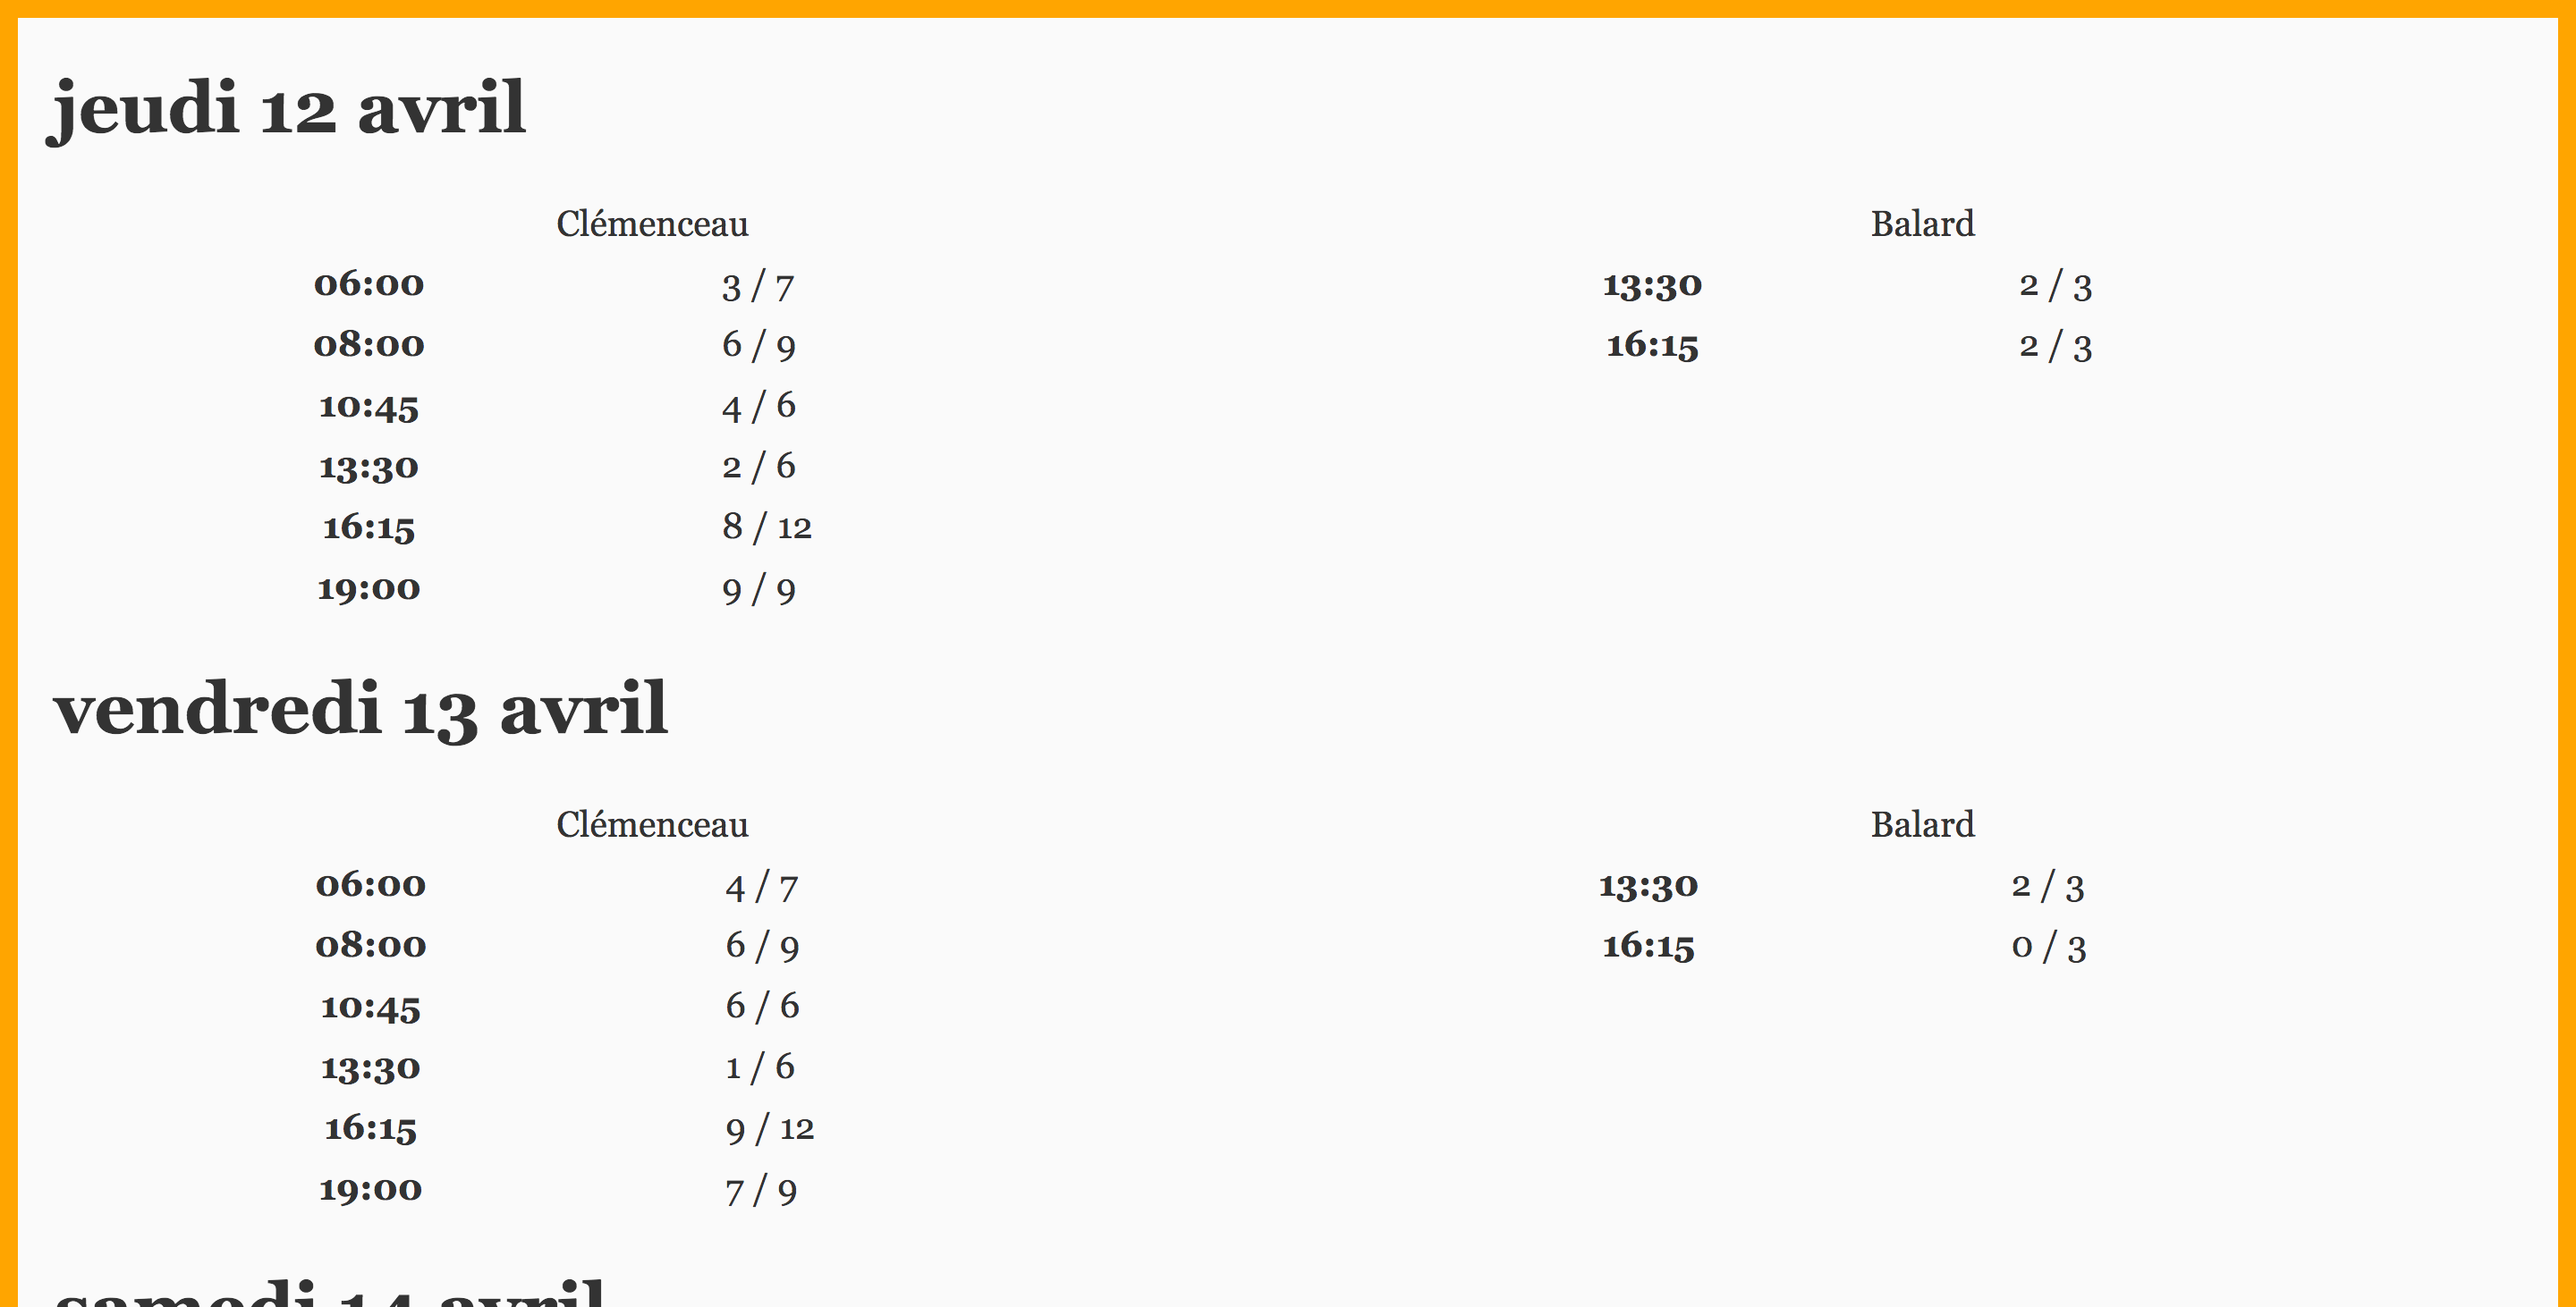
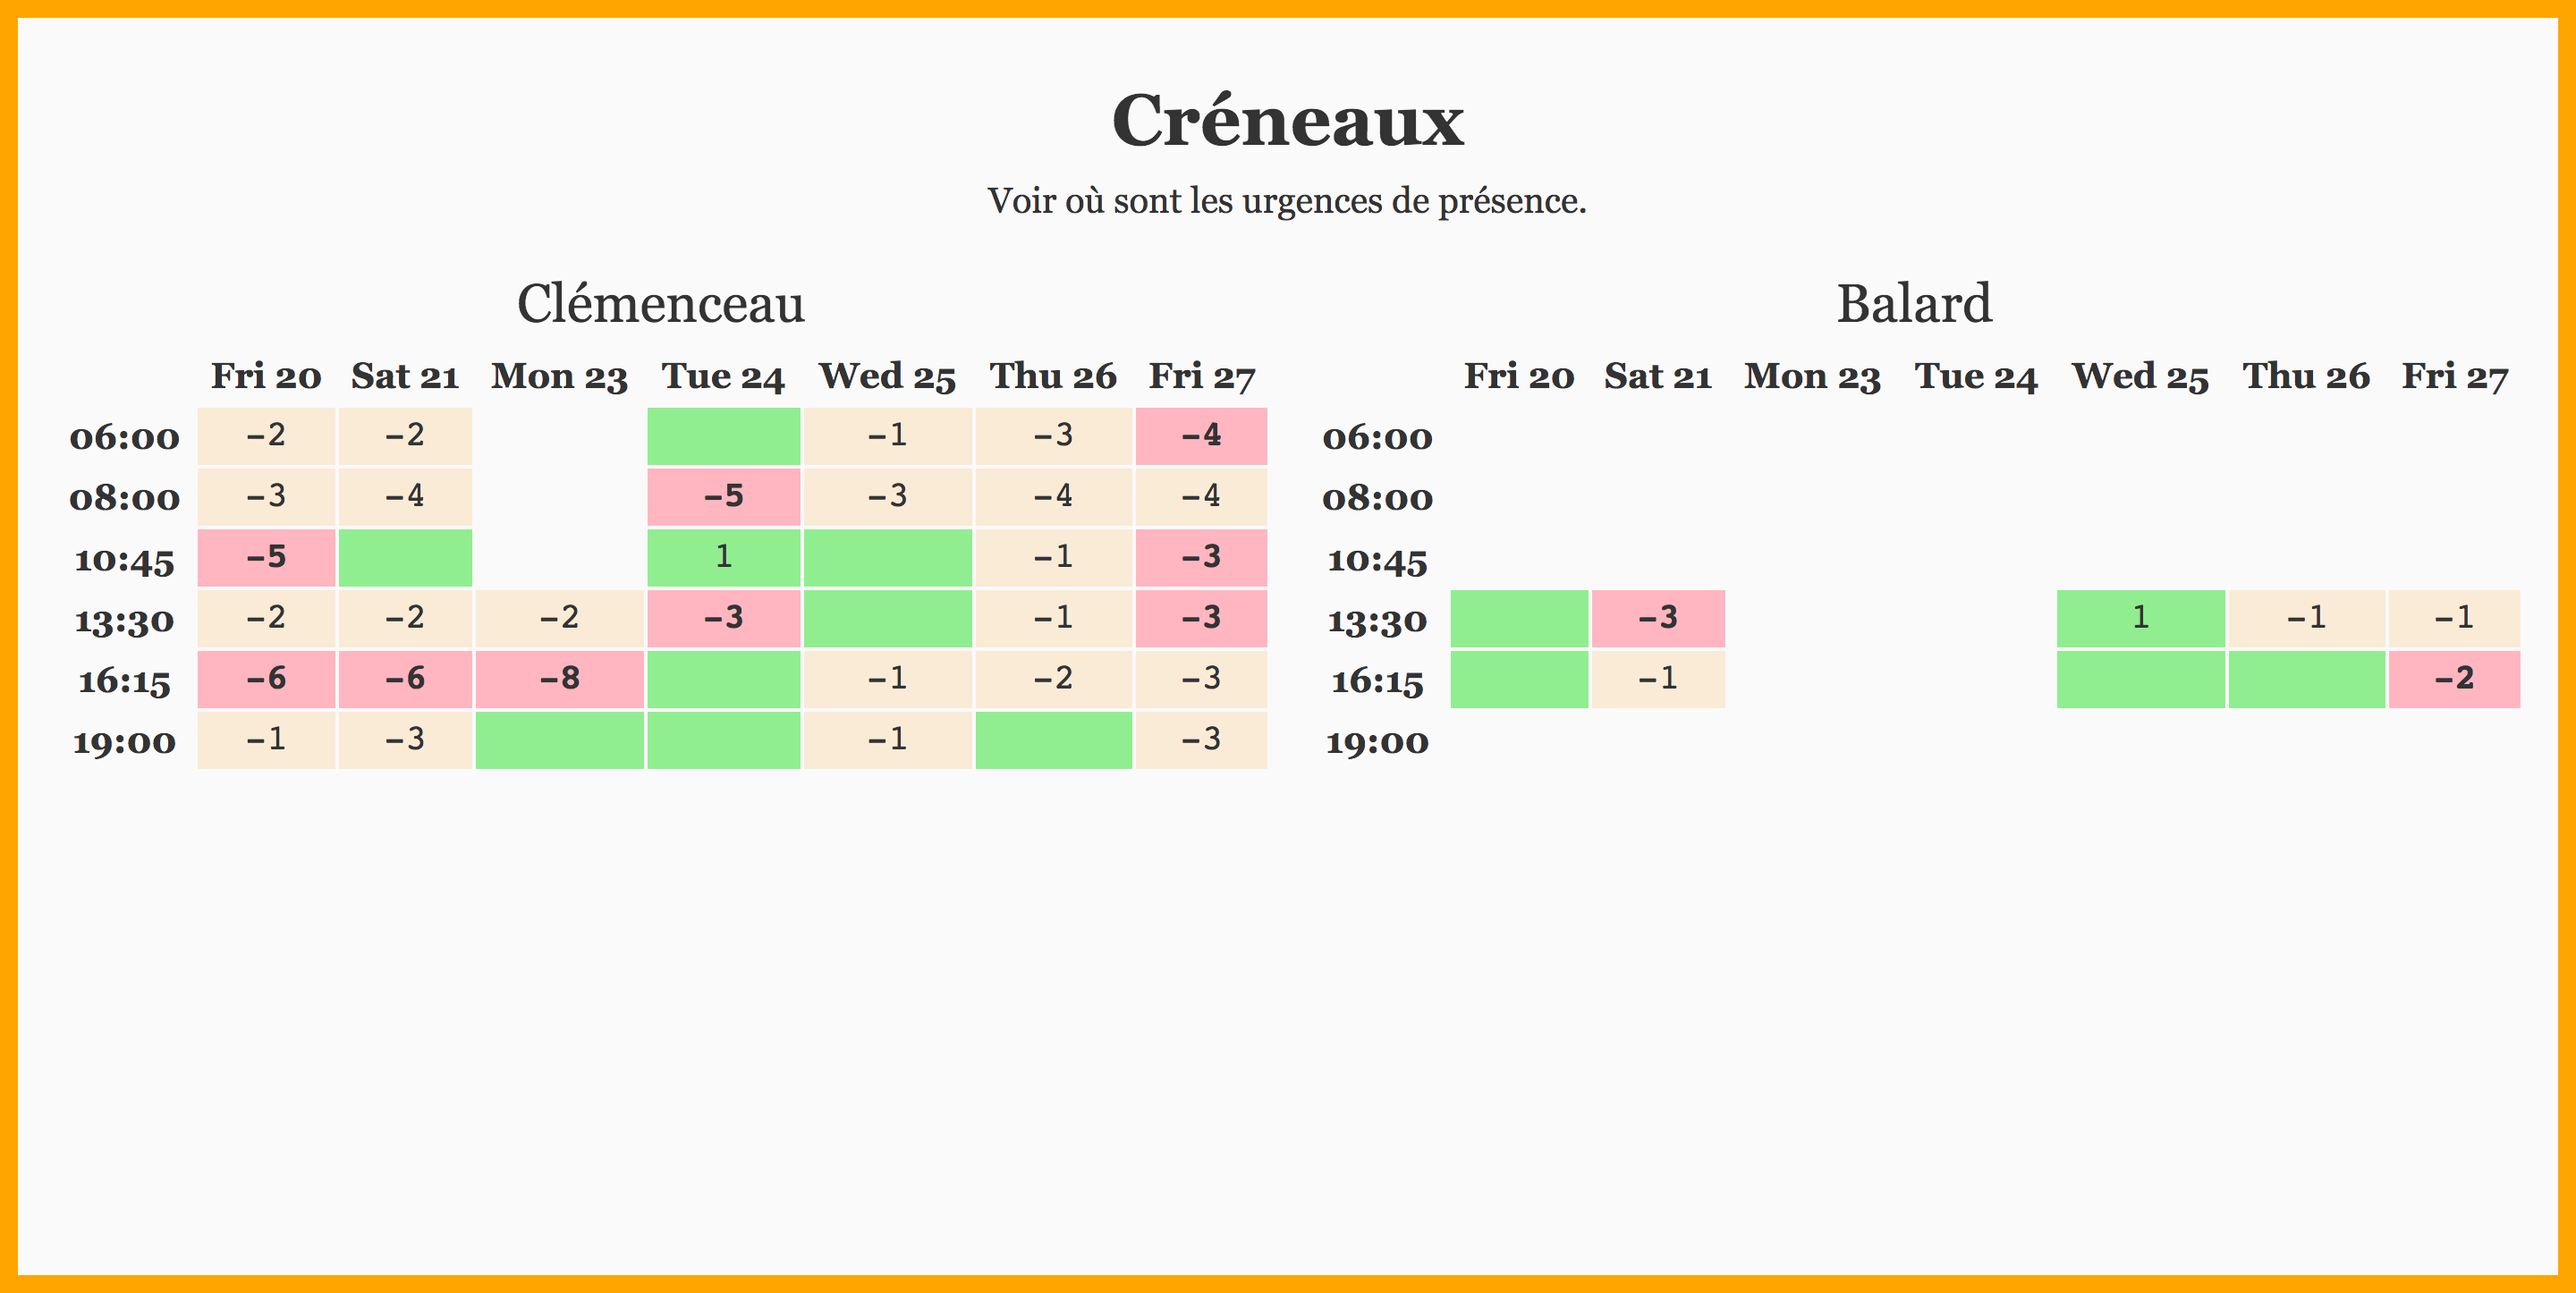
Schedule week view

diff --git a/views/schedule.html b/views/schedule.html
@@ -3,28 +3,41 @@
 {% block title %}Planning des semaines{% endblock %}
 
 {% block content %}
+<div class="intro">
+  <h1 class="title">Créneaux</h1>
 
-{% for day, venues in data %}
-<div class="day" id="{{ day }}">
-  <header>
-    <h1>{{ day | date.format('dddd DD MMMM', {locale: locale}) }}</h1>
-  </header>
-  {% for venue, schedules in venues %}
-  <table class="venue venue--{{ venue | lower }}" data-json="{{ schedules | dump(2) }}">
+  <p>Voir où sont les urgences de présence.</p>
+</div>
+
+<div class="week" id="current">
+{% for venue, shifts in data %}
+  <table class="venue venue--{{ venue | lower }}">
     <caption>{{ venue }}</caption>
-    <tbody>
-      {% for datetime, planning in schedules %}
-      {% set resources = planning | first %}
+    <thead>
       <tr>
-        <th class="time">{{ datetime | date.format('HH:mm') }}</th>
-        <td class="time__infos">
-          {{ resources.seats_expected }} / {{ resources.seats_max }}
+        <th></th>
+        {% for day in days %}
+        <th>{{ day | date.format('ddd DD') }}</th>
+        {% endfor %}
+      </tr>
+    </thead>
+    <tbody>
+      {% for shift in times %}
+      <tr>
+        <th>{{ shift }}</th>
+        {% for day in days %}
+        {% set resource = shifts[shift][day] | default([]) | first %}
+        {% set seats_diff = resource | resource_diff %}
+        <td class="digit {{ resource | resource_class }}">
+          {% if resource and (seats_diff !== 0) %}
+          {{ seats_diff }}
+          {% endif %}
         </td>
+        {% endfor %}
       </tr>
       {% endfor %}
     </tbody>
   </table>
-  {% endfor %}
-</div>
 {% endfor %}
+</div>
 {% endblock %}

diff --git a/lib/stats.js b/lib/stats.js
@@ -42,18 +42,43 @@ module.exports.users = ({ data:users }) => ({
   ]
 });
 
+module.exports.shiftsTimes = (services) => {
+  return services.reduce((times, d) => {
+    const time = format(d.date_begin_tz, 'HH:mm');
+
+    if (!times.includes(time)) {
+      times.push(time);
+    }
+
+    return times;
+  }, []);
+}
+
+module.exports.shiftsDays = (services) => {
+  return services.reduce((times, d) => {
+    const time = format(d.date_begin_tz, 'YYYY-MM-DD');
+
+    if (!times.includes(time)) {
+      times.push(time);
+    }
+
+    return times;
+  }, []);
+}
+
 module.exports.shifts = (services) => {
   const LOCATIONS = {
     'Cleme': 'Clémenceau',
     'Balar': 'Balard',
-  }
+  };
+
   return groupBy(
     services,
-    // by day of the week (monday, tuesday, etc.)
-    (d) => format(d.date_begin_tz, 'YYYY-MM-DD'),
     // by venue
     (d) => LOCATIONS[ d.name.split('-').pop().trim() ],
-    // by datetime
-    (d) => d.date_begin_tz,
+    // by shift
+    (d) => format(d.date_begin_tz, 'HH:mm'),
+    // by day
+    (d) => format(d.date_begin_tz, 'YYYY-MM-DD'),
   );
 };

diff --git a/public/main.css b/public/main.css
@@ -12,12 +12,24 @@ body {
   background: #fafafa;
   border: 10px solid orange;
   color: #333;
+  min-height: 100vh;
 }
 
 @media (min-width: 768px) {
   html {
     font-size: 20px;
   }
+}
+
+.intro {
+  text-align: center;
+}
+
+.intro h1 {
+  margin-bottom: 0;
+}
+.intro h1 + p {
+  margin-top: 0;
 }
 
 .grid {
@@ -94,9 +106,15 @@ body {
 }
 
 /* Planning View */
-.day {
+.day,
+.week {
   display: flex;
   flex-flow: row wrap;
+  justify-content: space-evenly;
+}
+
+.week caption {
+  font-size: 1.5em;
 }
 
 .day header {
@@ -106,7 +124,26 @@ body {
     margin: 1rem;
   }
 
-.day table {
-  flex-grow: 1;
-  width: 50%;
+.day table,
+.week table {
+  width: 48%;
+}
+
+td.digit {
+  font-family: monospace;
+  text-align: center;
+}
+.slots--na {
+  /* background: lightyellow; */
+}
+.slots--missing {
+  background: antiquewhite;
+}
+.slots--missing.heavy {
+  background: lightpink;
+  font-weight: bold;
+}
+.slots--full,
+.slots--overflow {
+  background: lightgreen;
 }

diff --git a/lib/controllers.js b/lib/controllers.js
@@ -4,6 +4,7 @@ const mem = require('mem');
 
 const { getUsers, getShifts } = require('./odoo');
 const { users: userStats, shifts: shiftStats } = require('./stats');
+const { shiftsTimes, shiftsDays } = require('./stats');
 
 const fetchUsers = mem(getUsers, { maxAge: 1*3600*1000 });
 const fetchShifts = mem(getShifts, { maxAge: 0.5*3600*1000 });
@@ -19,7 +20,17 @@ module.exports.users = (request, response) => {
 };
 
 module.exports.planning = (request, response) => {
+  let times = [];
+  let days = [];
+
   fetchShifts(request.params.date)
+    .then(services => {
+      times = shiftsTimes(services);
+      days = shiftsDays(services);
+      return services;
+    })
     .then(shiftStats)
-    .then((data) => response.render('schedule', { data }));
+    .then((data) => {
+      response.render('schedule', { data, times, days });
+    });
 };

diff --git a/lib/nunjucks/helpers.js b/lib/nunjucks/helpers.js
@@ -1,0 +1,37 @@
+'use strict';
+
+const getClasses = (resource) => {
+  const classes = [];
+
+  if (!resource) {
+    classes.push('slots--na');
+  }
+  else {
+    const difference = diff(resource);
+
+    if (difference === 0) {
+      classes.push('slots--full');
+    }
+    else if (difference < 0) {
+      classes.push('slots--missing');
+    }
+    else if (difference > 0) {
+      classes.push('slots--overflow');
+    }
+
+    if (Math.abs(difference) >= (resource.seats_max / 2)) {
+      classes.push('heavy');
+    }
+  }
+
+  return classes.join(' ');
+}
+
+const diff = (resource={}) => {
+  return (resource.seats_expected || 0) - (resource.seats_max || 0);
+}
+
+module.exports = (env) => {
+  env.addFilter('resource_class', getClasses);
+  env.addFilter('resource_diff', diff);
+};

diff --git a/server.js b/server.js
@@ -12,7 +12,8 @@ env.require('ODOO_PASSWORD');
 env.require('ODOO_URL');
 
 const controllers = require('./lib/controllers');
-const installDateFns = require('./lib/nunjucks-date-fns');
+const installDateFns = require('./lib/nunjucks/date-fns');
+const installHelpers = require('./lib/nunjucks/helpers');
 const isProduction = process.env.NODE_ENV === 'production';
 
 cons.requires.nunjucks = nunjucks.configure(join(__dirname, 'views'), {
@@ -20,6 +21,7 @@ cons.requires.nunjucks = nunjucks.configure(join(__dirname, 'views'), {
   watch: !isProduction,
 });
 installDateFns(cons.requires.nunjucks, { locale: 'fr' });
+installHelpers(cons.requires.nunjucks);
 
 app.engine('html', cons.nunjucks);
 app.set('view engine', 'html');

diff --git a/views/users.html b/views/users.html
@@ -15,7 +15,7 @@
     </p>
   </li>
   <li class="links">
-    <a href="/planning">📋 Planning</a>
+    <a href="/planning">📋 Créneaux</a>
   </li>
   <li>
     <span class="digits">{{ data.badge_to_print }}</span> badges à imprimer
